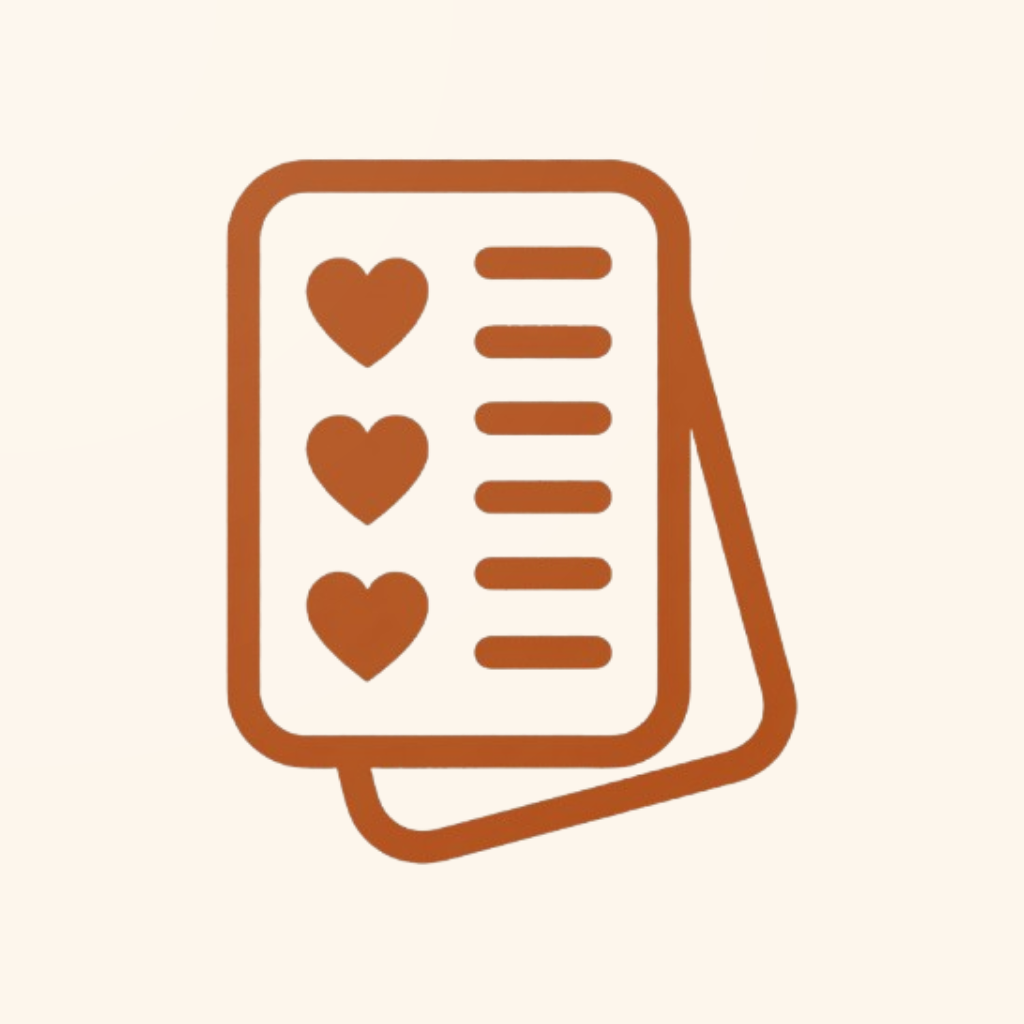
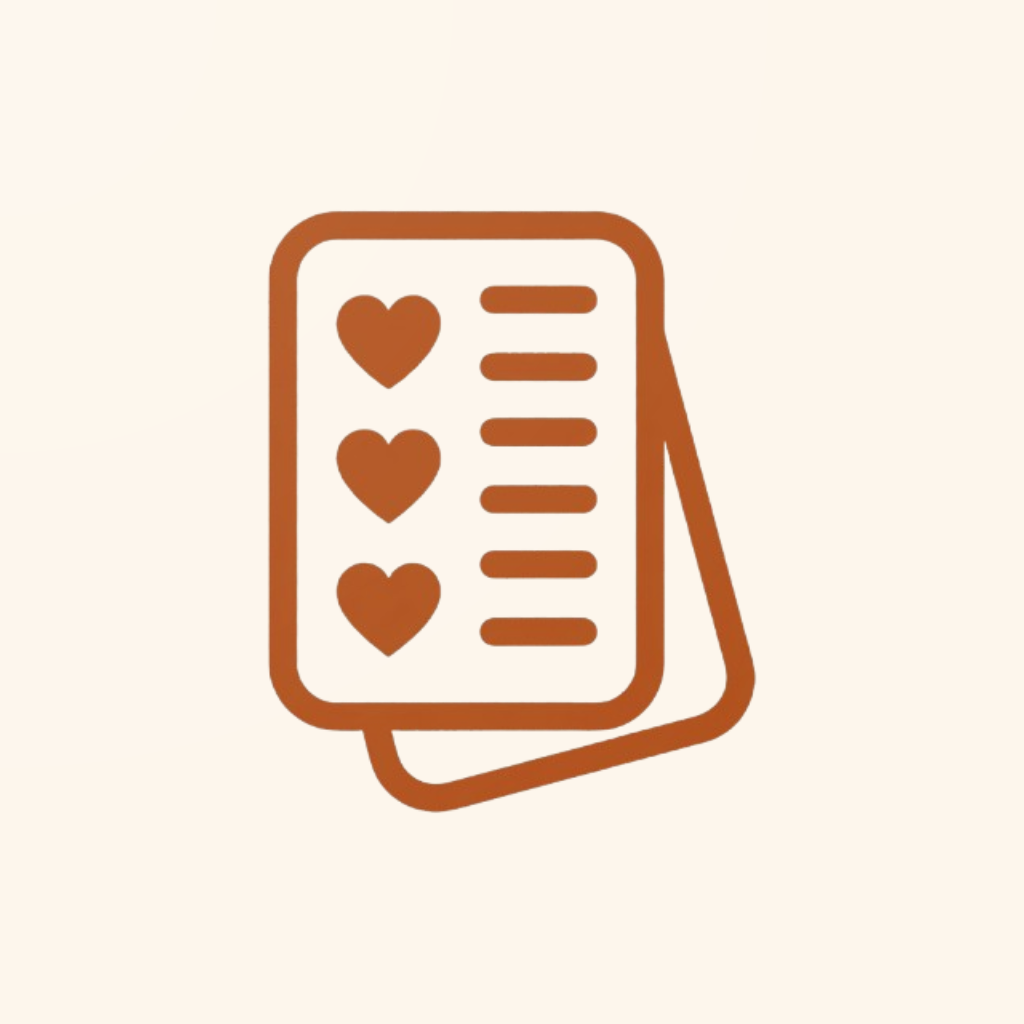
Improve error handling and Firestore write confirmation in Household context

Changed region(s): [[0.2188, 0.1562, 0.7812, 0.8438]]

diff --git a/src/screens/HouseholdScreen.tsx b/src/screens/HouseholdScreen.tsx
@@ -49,8 +49,10 @@ export default function HouseholdScreen() {
     try {
       setIsCreating(true);
       await createHousehold();
-    } catch {
-      Alert.alert('Erreur', 'Impossible de créer le foyer. Vérifie ta connexion.');
+    } catch (err) {
+      console.error('[Foyer] createHousehold error:', err);
+      const msg = err instanceof Error ? err.message : String(err);
+      Alert.alert('Erreur', `Impossible de créer le foyer.\n\n${msg}`);
     } finally {
       setIsCreating(false);
     }
@@ -74,8 +76,10 @@ export default function HouseholdScreen() {
     setShowScanner(false);
     try {
       await joinHousehold(data);
-    } catch {
-      Alert.alert('QR invalide', 'Ce QR code ne correspond à aucun foyer.');
+    } catch (err) {
+      console.error('[Foyer] joinHousehold error:', err);
+      const msg = err instanceof Error ? err.message : String(err);
+      Alert.alert('QR invalide', `Impossible de rejoindre le foyer.\n\n${msg}`);
       setScanned(false);
     }
   }

diff --git a/src/context/HouseholdContext.tsx b/src/context/HouseholdContext.tsx
@@ -113,13 +113,14 @@ export function HouseholdProvider({ children }: { children: React.ReactNode }) {
       pseudo: currentUser.pseudo || 'Moi',
       joinedAt: new Date().toISOString(),
     };
-    // Save locally first — instant, no network needed
+    // Must confirm Firestore write before returning — the QR code is useless
+    // if the doc doesn't exist yet when phone 2 tries to join.
+    await withTimeout(
+      setDoc(doc(db, 'households', newId), { members: [member] }),
+      15_000
+    );
     await AsyncStorage.setItem(HOUSEHOLD_ID_KEY, newId);
     setHouseholdId(newId);
-    // Sync to Firestore in background; errors are non-fatal
-    setDoc(doc(db, 'households', newId), { members: [member] }).catch(() => {
-      console.warn('Firestore: foyer sync en attente de connexion');
-    });
     return newId;
   }, [currentUser]);
 